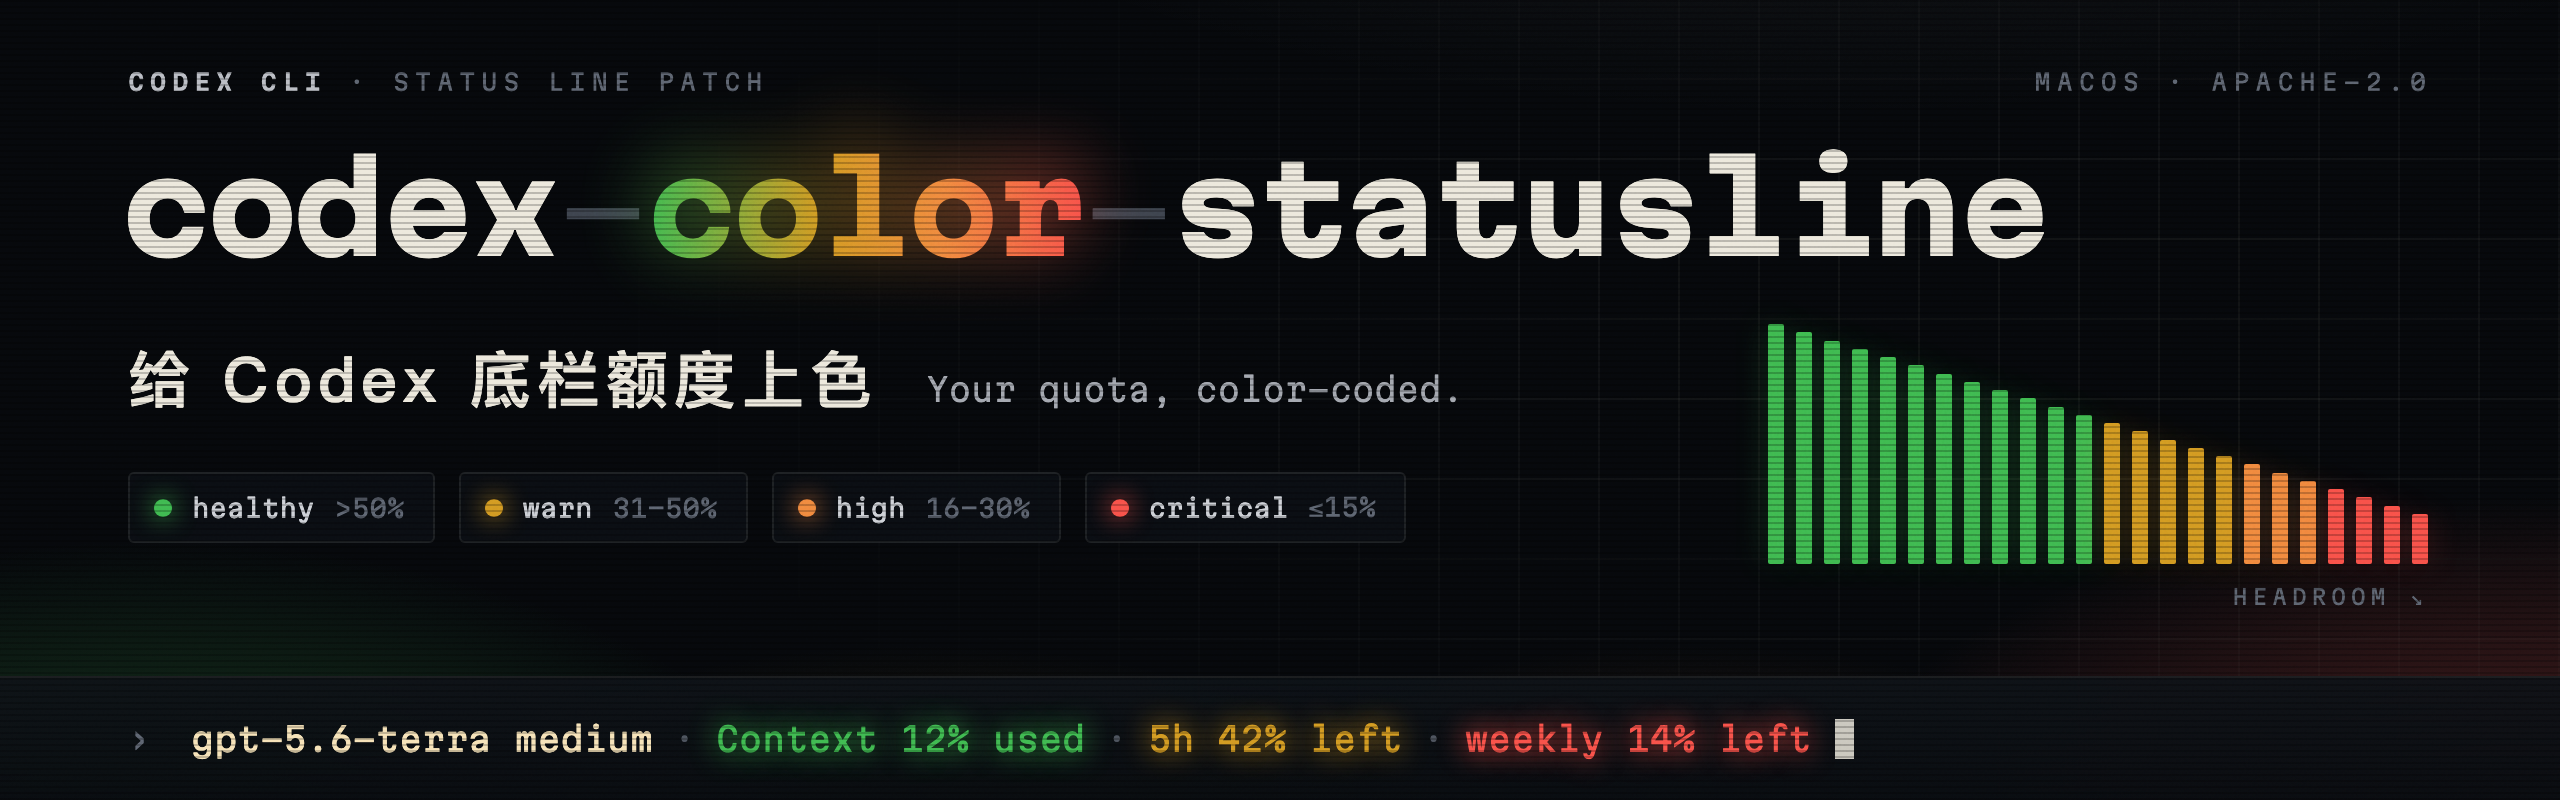
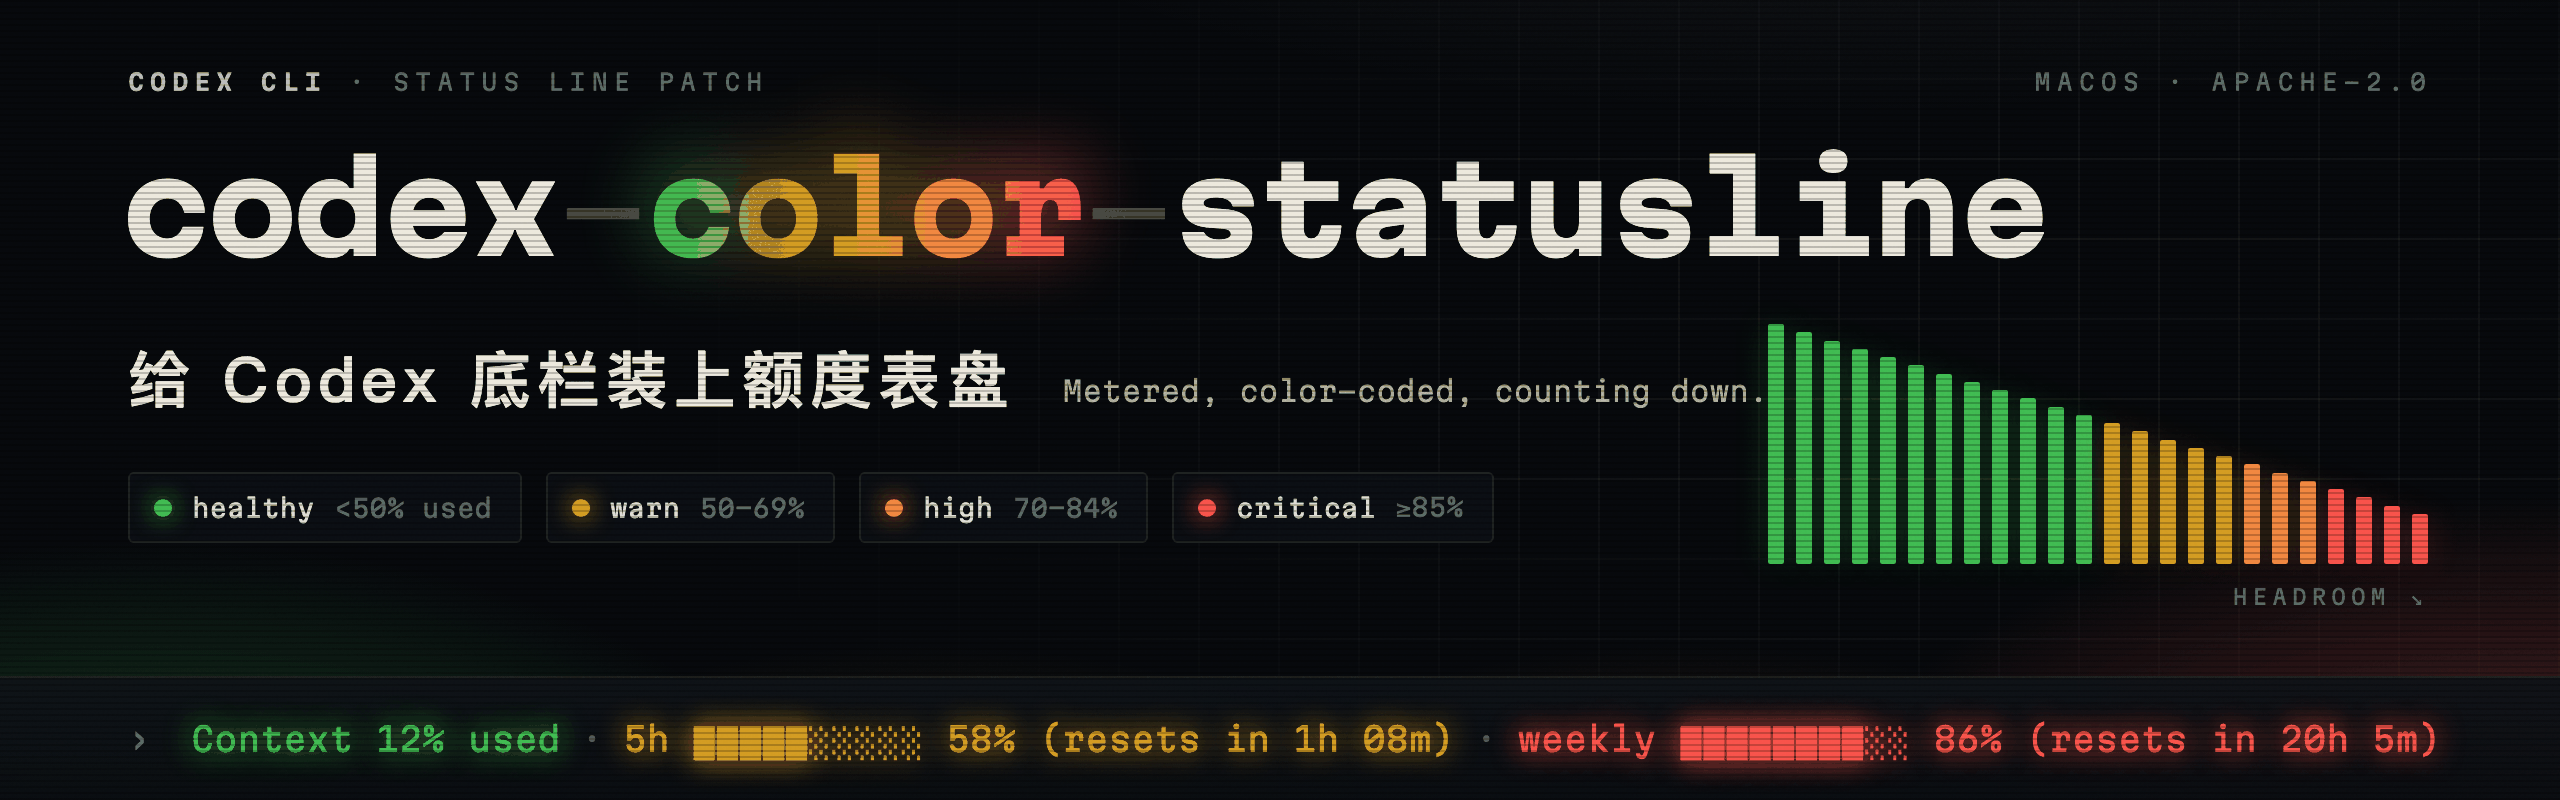
重做配图并补充常见问题
两张图按表盘式重绘：preview 改成同一份额度在官方版与补丁版下的对照，
外加四档用量的颜色示例；banner 更新副标题、底栏示例，并把图例从「剩余」
口径改成「已用」，与补丁后的实际显示一致。

进度条用脚本把每格锁成等宽再渲染：█ 和 ░ 在本机会 fallback 到不同字体，
直接排会让条长参差，而真实终端里每个字符恒占一格。

两张图改用 256 色存储，banner 1042KB→472KB、preview 145KB→72KB，
渐变和光晕无可见损失。

README 中英双版新增常见问题，覆盖额度何时重置、为何颜色不随用量变化、
能否用脚本自定义底栏、数据来源、百分比口径为何改变、跨平台与升级失效。

diff --git a/README.md b/README.md
@@ -18,7 +18,7 @@ gpt-5.6-sol high · Context 0% used · 5h ░░░░░░░░░░ 5% (res
 <p align="center">
   <img src="docs/preview.png" alt="Simulated Codex status lines at different usage levels" width="100%">
 </p>
-<p align="center"><sub>Simulated preview of the color thresholds. Top line: official colors. Below: the patched status line at different usage levels.</sub></p>
+<p align="center"><sub>Simulated preview. Top row: the official status line for that exact usage. Below: the same quota after patching, at four levels of usage.</sub></p>
 
 Codex already shows `Context N% used`, `5h N% left` and `weekly N% left` in its footer, but it colors each item by type, so the color never changes as you run low, and it never tells you *when* a limit resets — for that you have to run `/status`. There is no setting for either, so this project rebuilds Codex from the official source.
 
@@ -78,6 +78,29 @@ Context is per conversation. The 5h and weekly limits are shared by your whole a
 **A Codex update silently puts you back on the official binary.** It installs into a new version folder and repoints `current`, so nothing breaks — but the colors and the meters are gone, with no warning. If the status line stops reacting to your usage, that is what happened.
 
 Run `./build.sh && ./install.sh` again. If `build.sh` says a patch does not apply, upstream changed the code it touches and the patch needs an update.
+
+## FAQ
+
+**When does my Codex weekly limit reset?**
+After patching, the status line says so directly: `weekly █░░░░░░░░░ 15% (resets in 18h 58m)`. Without it you have to run `/status` and read the reset time off the card. The weekly window is a fixed 7-day window that resets all at once — it is not a rolling window that decays.
+
+**Why doesn't the Codex CLI status line change color as I run out of quota?**
+Because upstream colors each item by *type*, not by value — the 5h and weekly items share one color no matter what the numbers say, and `status_line_use_colors` is only an on/off switch. There is no setting for threshold colors; that is what the first patch adds.
+
+**Can I customize the Codex CLI status line with a script?**
+No. Unlike Claude Code's `statusLine`, Codex only lets you pick from built-in items in `[tui] status_line` — there is no hook for a custom command. That is why this project patches and rebuilds the source instead.
+
+**Where does the usage data come from?**
+From the rate-limit snapshot Codex already receives alongside its replies — the same numbers `/status` shows. Nothing extra is requested, and no data leaves your machine.
+
+**Why does the percentage now count up instead of down?**
+Upstream shows headroom (`weekly 85% left`); the patch shows consumption (`weekly 15%`), so the number moves in the same direction as the bar beside it and as `Context N% used`.
+
+**Does it work on Linux or Windows?**
+The patches themselves are platform-independent — they only touch the TUI crate. The build and install scripts assume the macOS standalone layout (`~/.codex/packages/standalone`), so other platforms need their own install scripts.
+
+**Will a Codex update remove it?**
+Yes, silently. See [After updating Codex](#after-updating-codex).
 
 ## How it works
 

diff --git a/README.zh-CN.md b/README.zh-CN.md
@@ -18,7 +18,7 @@ gpt-5.6-sol high · Context 0% used · 5h ░░░░░░░░░░ 5% (res
 <p align="center">
   <img src="docs/preview.png" alt="不同用量下的 Codex 底栏模拟效果" width="100%">
 </p>
-<p align="center"><sub>配色阈值的模拟效果图。第一行是官方原配色，下面几行是补丁后在不同用量下的样子。</sub></p>
+<p align="center"><sub>模拟效果图。第一行是同一份额度在官方版下的样子，下面是补丁后同一份额度在四档用量下的样子。</sub></p>
 
 Codex 底栏本来就能显示 `Context N% used`、`5h N% left`、`weekly N% left`，但颜色只按项目类型固定，额度快用完了颜色也不变；而且它从不告诉你额度**什么时候**重置，想知道得专门敲 `/status`。这两件事都没有设置能改，所以这个项目用官方源码重新编译 Codex。
 
@@ -78,6 +78,29 @@ Context 每个对话单独算；5h 和 weekly 整个账号共用。
 **Codex 升级会不声不响把你换回官方版。** 它装到新的版本目录并切换 `current`，功能不受影响，但颜色和表盘都没了，而且没有任何提示。如果哪天发现底栏颜色不跟着用量变了，多半就是这个原因。
 
 重新运行 `./build.sh && ./install.sh` 即可。如果 `build.sh` 提示某个补丁套不上，说明上游改了这个补丁涉及的代码，补丁需要更新。
+
+## 常见问题
+
+**我的 Codex 每周额度什么时候重置？**
+打了补丁以后底栏直接告诉你：`weekly █░░░░░░░░░ 15% (resets in 18h 58m)`。没有补丁就得敲 `/status`，从卡片里读重置时间。每周额度是固定的 7 天窗口，到点整体清零，不是慢慢滚动恢复的。
+
+**为什么 Codex 底栏额度快用完了颜色也不变？**
+因为官方是按项目**类型**上色，不看数值——5h 和 weekly 不管数字多少都是同一个颜色，而 `status_line_use_colors` 只是个开关。没有任何设置能做阈值变色，这正是第一个补丁做的事。
+
+**能不能用脚本自定义 Codex 底栏？**
+不能。Claude Code 的 `statusLine` 可以挂自己的命令，Codex 只能在 `[tui] status_line` 里从内置项里挑，没有留任何脚本入口。所以这个项目只能改源码重新编译。
+
+**额度数据是从哪来的？**
+来自 Codex 每次回复时本来就会收到的额度快照，和 `/status` 显示的是同一份数字。不额外发任何请求，也没有数据离开你的电脑。
+
+**为什么百分比从「还剩」变成了「已用」？**
+官方显示余量（`weekly 85% left`），补丁显示用量（`weekly 15%`），这样数字和旁边进度条的方向一致，也和 `Context N% used` 一致。
+
+**Linux 和 Windows 能用吗？**
+补丁本身跨平台，只改 TUI 这一个 crate。但编译和安装脚本是按 macOS 的独立安装目录（`~/.codex/packages/standalone`）写的，别的平台需要自己写安装脚本。
+
+**Codex 升级会不会把它弄没？**
+会，而且没有任何提示。见 [Codex 升级之后](#codex-升级之后)。
 
 ## 原理
 
